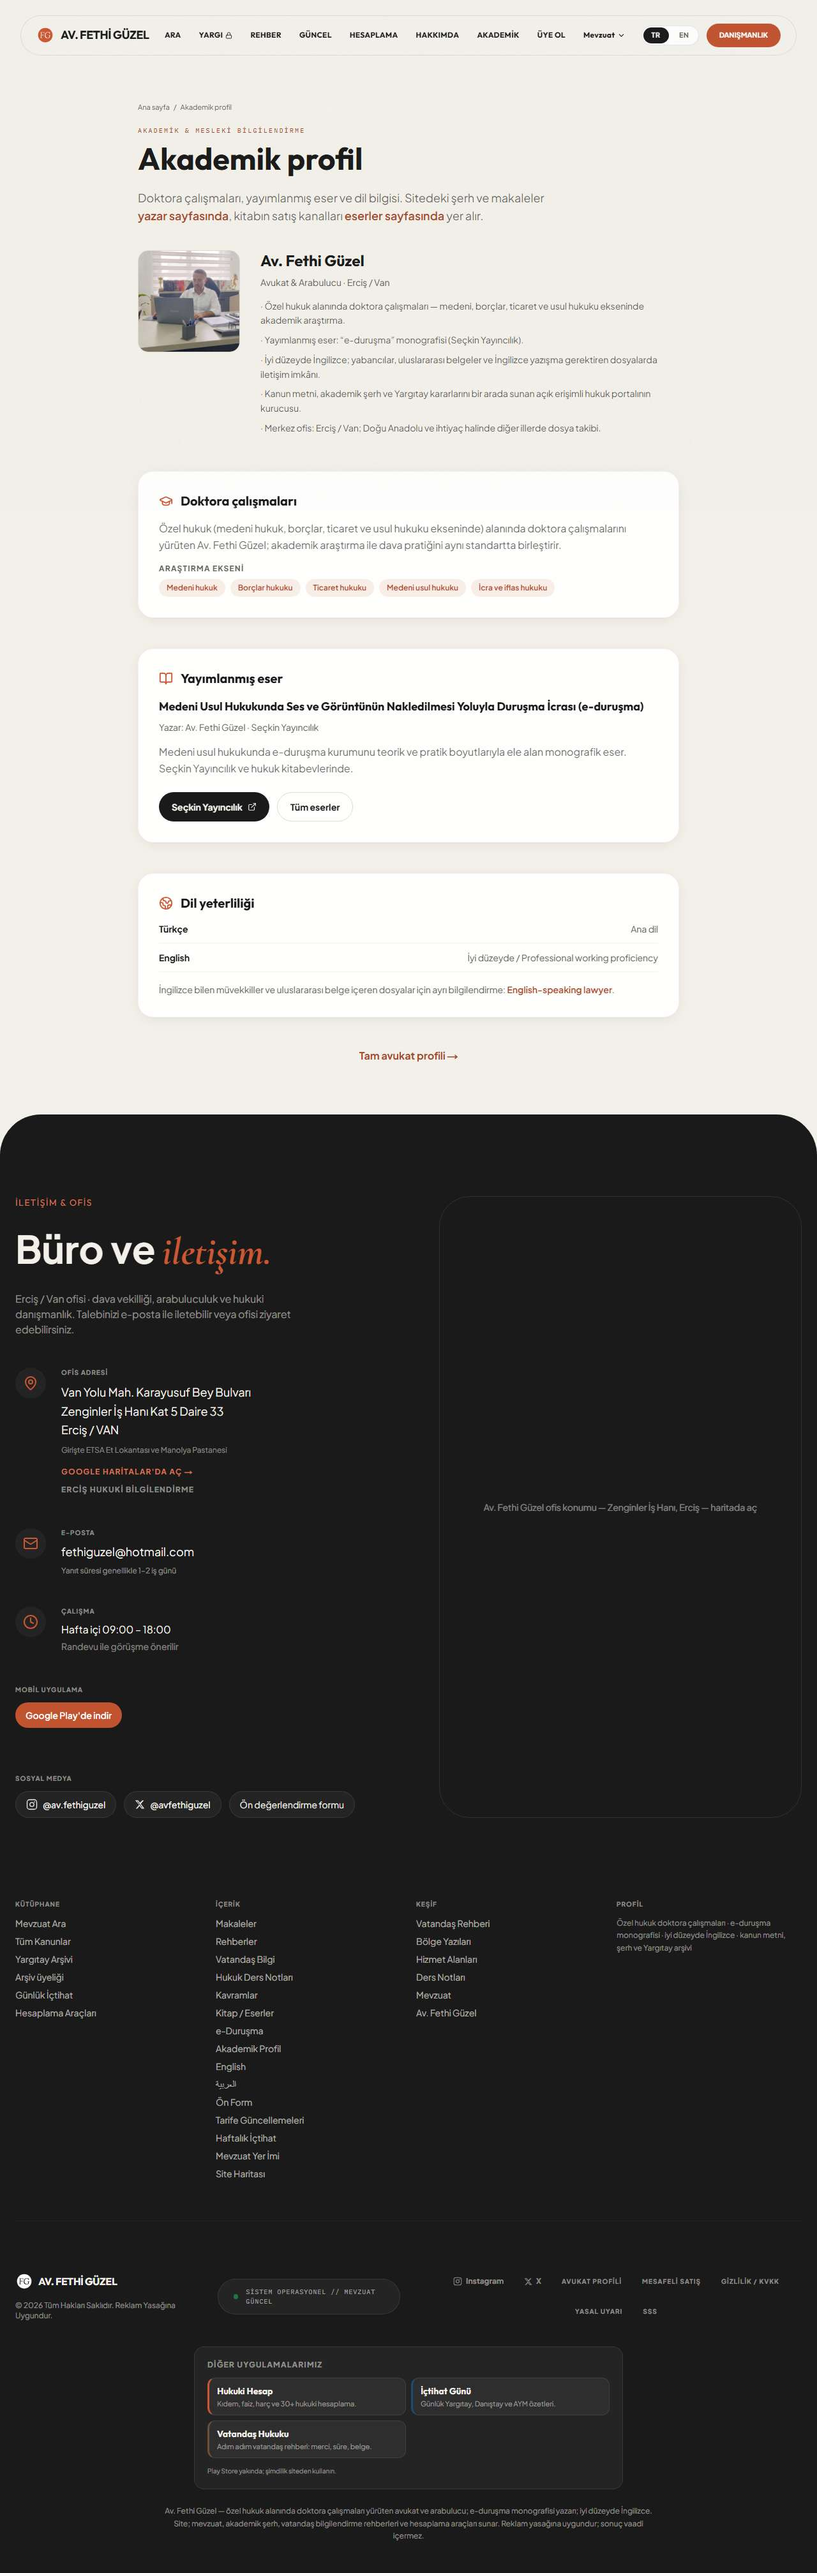
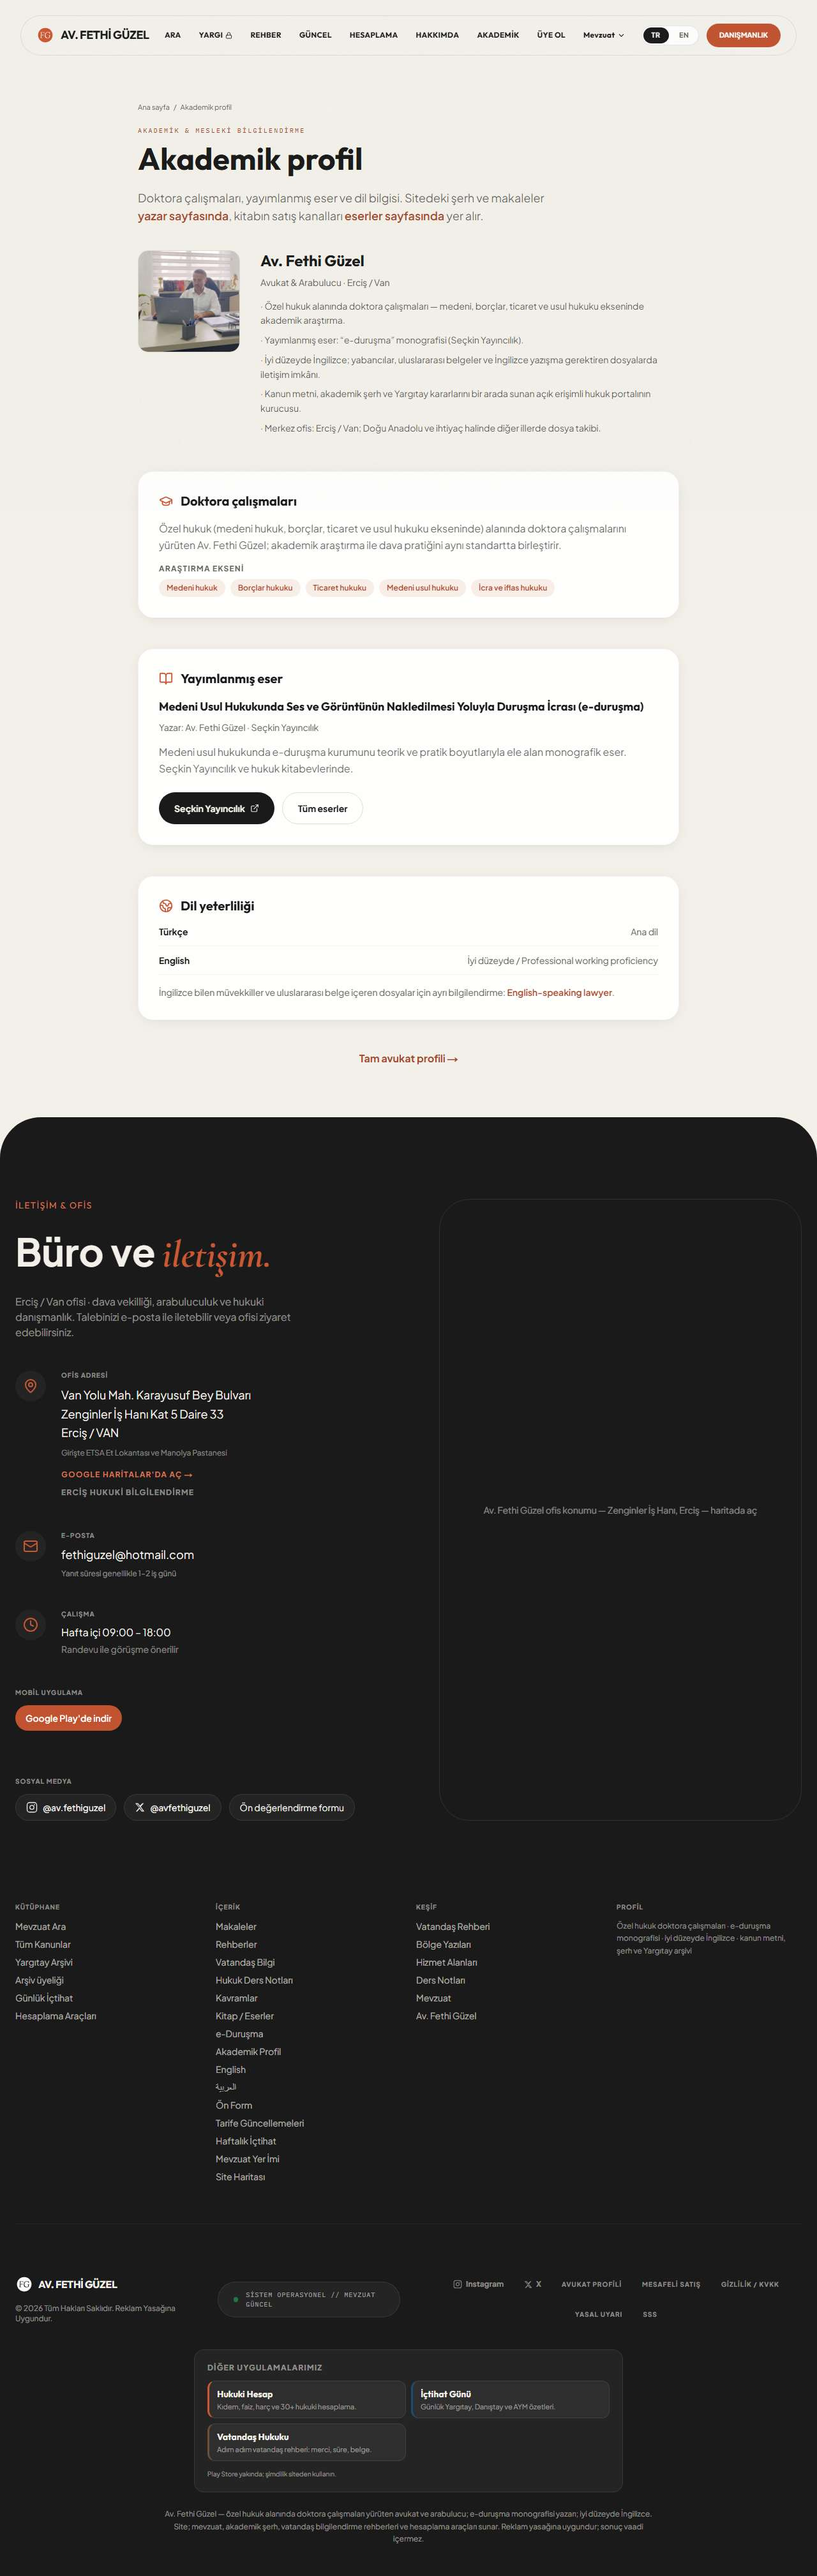
feat(tasarim): ana sayfa ve yazar sayfalarında düğmeler ortak sınıflardan, G16 kapanışı (G16)
Açık zemindeki 14 satır içi düğme .btn-primary, .btn-dark, .btn-secondary ve
.btn-chip sınıflarına toplanır; yazar sayfasının bağlantı satırı dört dolgudan üç
düzeye iner, çipin üzerine gelme rengi accent-ink olur. Hero'nun koyu zemindeki
kademeli düğmeleri bilinçli hiyerarşi olarak kalır. Cırcır testi önce kırmızı (14).
Dört sayfa iki genişlikte denetim 0; ana sayfa mobil aktarım 716 KB, LCP 4.903 ms.
PLAN.md'de G16 tamamlandı; alt bilgideki uyum beyanları G25'e devredildi.

diff --git a/app/avukat-fethi-guzel/page.tsx b/app/avukat-fethi-guzel/page.tsx
@@ -206,7 +206,7 @@ export default function AvukatFethiGuzelPage() {
                         <div className="flex flex-col sm:flex-row flex-wrap gap-3 mb-10">
                             <a
                                 href={`mailto:${PROFILE.email}`}
-                                className="inline-flex items-center justify-center gap-2 bg-accent-solid text-white px-6 py-3.5 rounded-full font-bold text-sm hover:bg-accent-ink"
+                                className="btn-primary"
                             >
                                 <Mail size={16} /> E-posta ile iletişim
                             </a>
@@ -214,7 +214,7 @@ export default function AvukatFethiGuzelPage() {
                                 href={PROFILE.social.instagram.url}
                                 target="_blank"
                                 rel="noopener noreferrer me"
-                                className="inline-flex items-center justify-center gap-2 bg-charcoal/5 text-charcoal px-6 py-3.5 rounded-full font-bold text-sm hover:bg-charcoal/10"
+                                className="btn-secondary"
                             >
                                 Instagram
                             </a>
@@ -222,25 +222,25 @@ export default function AvukatFethiGuzelPage() {
                                 href={PROFILE.social.twitter.url}
                                 target="_blank"
                                 rel="noopener noreferrer me"
-                                className="inline-flex items-center justify-center gap-2 bg-charcoal/5 text-charcoal px-6 py-3.5 rounded-full font-bold text-sm hover:bg-charcoal/10"
+                                className="btn-secondary"
                             >
                                 X / Twitter
                             </a>
                             <Link
                                 href="/akademik-profil"
-                                className="inline-flex items-center justify-center gap-2 bg-charcoal text-cream px-6 py-3.5 rounded-full font-bold text-sm hover:bg-charcoal/90"
+                                className="btn-dark"
                             >
                                 Akademik profil
                             </Link>
                             <Link
                                 href="/eserlerim"
-                                className="inline-flex items-center justify-center gap-2 bg-charcoal/5 text-charcoal px-6 py-3.5 rounded-full font-bold text-sm hover:bg-charcoal/10"
+                                className="btn-secondary"
                             >
                                 Kitap & eserler
                             </Link>
                             <Link
                                 href="/english-speaking-lawyer"
-                                className="inline-flex items-center justify-center gap-2 border border-charcoal/15 text-charcoal px-6 py-3.5 rounded-full font-bold text-sm hover:border-accent"
+                                className="btn-secondary"
                             >
                                 English
                             </Link>

diff --git a/app/page.tsx b/app/page.tsx
@@ -92,7 +92,7 @@ export default function Home() {
               <li key={href}>
                 <a
                   href={href}
-                  className="inline-block text-sm px-3 py-1.5 rounded-full bg-cream border border-charcoal/10 font-semibold text-charcoal hover:border-accent hover:text-accent transition-colors"
+                  className="btn-chip"
                 >
                   {label}
                 </a>
@@ -120,13 +120,13 @@ export default function Home() {
           <div className="flex flex-wrap gap-2">
             <Link
               href="/bilgi"
-              className="inline-flex items-center gap-2 bg-accent-solid text-white px-6 py-3 rounded-full text-sm font-bold hover:bg-accent-ink transition-colors"
+              className="btn-primary"
             >
               Vatandaş rehberi
             </Link>
             <Link
               href="/rehber"
-              className="inline-flex items-center gap-2 bg-charcoal text-cream px-6 py-3 rounded-full text-sm font-bold hover:bg-accent-solid hover:text-white transition-colors"
+              className="btn-dark"
             >
               Süreç kılavuzları
             </Link>

diff --git a/app/globals.css b/app/globals.css
@@ -269,6 +269,19 @@ body::before {
     @apply inline-flex items-center justify-center gap-2 bg-white/10 text-cream border border-white/20 font-bold text-sm px-6 py-3.5 rounded-full transition-all hover:bg-white/20;
   }
 
+  /* Açık zeminde ikinci ve üçüncü düzey düğme, küçük bağlantı çipi (G16; önceden 14 satır içi birleşim). */
+  .btn-dark {
+    @apply inline-flex items-center justify-center gap-2 bg-charcoal text-cream font-bold text-sm px-6 py-3.5 rounded-full transition-colors hover:bg-accent-solid hover:text-white;
+  }
+
+  .btn-secondary {
+    @apply inline-flex items-center justify-center gap-2 border border-charcoal/15 text-charcoal font-bold text-sm px-6 py-3.5 rounded-full transition-colors hover:border-accent hover:text-accent-ink;
+  }
+
+  .btn-chip {
+    @apply inline-block text-sm font-semibold text-charcoal bg-cream border border-charcoal/10 px-3 py-1.5 rounded-full transition-colors hover:border-accent hover:text-accent-ink;
+  }
+
   .section-label {
     @apply text-accent-ink font-heading text-xs sm:text-sm tracking-[0.2em] uppercase font-semibold;
   }

diff --git a/app/akademik-profil/page.tsx b/app/akademik-profil/page.tsx
@@ -142,13 +142,13 @@ export default function AkademikProfilPage() {
                             href={YAZAR.eser.url}
                             target="_blank"
                             rel="noopener noreferrer"
-                            className="inline-flex items-center gap-2 bg-charcoal text-cream px-5 py-3 rounded-full text-sm font-bold hover:bg-accent-solid hover:text-white transition-colors"
+                            className="btn-dark"
                         >
                             {YAZAR.eser.yayinevi} <ExternalLink size={14} />
                         </a>
                         <Link
                             href="/eserlerim"
-                            className="inline-flex items-center gap-2 border border-charcoal/15 px-5 py-3 rounded-full text-sm font-bold text-charcoal hover:border-accent"
+                            className="btn-secondary"
                         >
                             Tüm eserler
                         </Link>

diff --git a/components/About.tsx b/components/About.tsx
@@ -106,7 +106,7 @@ export default function About({ serh, kitap }: { serh: string; kitap: string }) 
           <div className="philo-text pt-2">
             <Link
               href="/avukat-fethi-guzel"
-              className="inline-flex items-center justify-center gap-2 bg-accent-solid text-white px-6 py-3.5 rounded-full font-bold text-sm hover:bg-accent-ink transition-colors"
+              className="btn-primary"
             >
               Tam profil
               <ArrowRight size={16} aria-hidden />

diff --git a/components/ToolsPreview.tsx b/components/ToolsPreview.tsx
@@ -101,7 +101,7 @@ export default function ToolsPreview() {
           </div>
           <Link
             href="/hesaplama"
-            className="group self-start flex items-center gap-2 bg-charcoal text-cream px-6 py-3 rounded-full font-bold text-sm transition-all hover:bg-accent-solid hover:text-white"
+            className="group self-start btn-dark"
           >
             Tüm Araçlar
             <ArrowRight size={15} className="group-hover:translate-x-1 transition-transform" />

diff --git a/components/YargiPreview.tsx b/components/YargiPreview.tsx
@@ -75,7 +75,7 @@ export default function YargiPreview() {
           </div>
           <Link
             href="/yargi-kararlari"
-            className="self-start inline-flex items-center gap-2 bg-accent-solid text-white px-6 py-3 rounded-full text-sm font-bold hover:bg-accent-ink transition-colors"
+            className="self-start btn-primary"
           >
             {total ? `${total.toLocaleString('tr-TR')} karar · üyelik` : 'Üyelikle aç'}
             <ArrowRight size={15} />

diff --git a/docs/aylik-plan/PLAN.md b/docs/aylik-plan/PLAN.md
@@ -232,13 +232,14 @@ biter; çalıştırıcı limit mesajındaki yenilenme saatini okuyup 3 dk sonras
     metni, düz `bg-accent` dolgusunu, krem yazı ile dolgu eşleşmesini, `outline-none` ve kalın tek kenar çizgisini engeller. Rapor
     `raporlar/tasarim-denetimi.md`. Koyu tema soru 21'e bağlıdır.
 
-- [ ] **G16 — Ana sayfa ve yazar sayfaları** · bağımlı: G09, G15
+- [x] **G16 — Ana sayfa ve yazar sayfaları** · bağımlı: G09, G15 · 2026-10-08: elle yazılmış külliyat sayısı 11 → 0, bölüm otorite sırasıyla, üç yazar sayfası tek kaynaktan; mobil ana sayfa 13.653 → 11.483 px, aktarım 758 → 716 KB, LCP 5.618 → 4.903 ms; dört sayfada denetim 0
   - Otorite öncelikli kurgu: yazar, eserler, şerh külliyatı, karar arşivi büyüklüğü, güncel içtihat.
     Satış/reklam dili yok.
-  - DEVAM EDİYOR (2026-10-08): Değerlendirme raporu `raporlar/g16-anasayfa-yazar.md`. Külliyat sayıları tek kaynaktan, uyum
-    beyanları kaldırıldı, cırcır testi (`d4d92766e`, `aa277ba7b`). Kalan: bölüm birleştirme, yazar sayfaları, ölçüm (`gorevler/G16.md`).
+  - Tamamlandı (2026-10-08): Rapor `raporlar/g16-anasayfa-yazar.md`, alt plan `gorevler/G16.md`. Commit'ler `d4d92766e`,
+    `aa277ba7b`, `3a9f11b78`, `3d557a0a8`, `f5091f063` ve düğme sınıfları. Soru 10–14'e bağlı öğeler değiştirilmemiştir.
   - G15 notu: Dolgulu yuvarlak düğmeler 29 yerde 14 dolgu/punto birleşimiyle yazılmıştır. Sayfalar yeniden kurulurken `.btn-primary`
-    ve küçük etiket düğmesi için tek sınıfa toplanır (renk jetonu `accent-solid` hazırdır).
+    ve küçük etiket düğmesi için tek sınıfa toplanır (renk jetonu `accent-solid` hazırdır). G16'da ana sayfa ve yazar sayfalarındaki
+    14 düğme `.btn-primary`, `.btn-dark`, `.btn-secondary`, `.btn-chip` sınıflarına toplanmıştır; sitenin geri kalanı G21/G24'te.
 
 - [ ] **G17 — Grafikler** · bağımlı: G15 · beceri: dataviz
   - "Yargıtay karar arşivi" istatistik sayfası: yıllara, birimlere, hukuk alanlarına göre dağılım,
@@ -281,6 +282,10 @@ biter; çalıştırıcı limit mesajındaki yenilenme saatini okuyup 3 dk sonras
     görevler ve yazı tipi değişiminin yerleşim maliyeti profillenir (`gorevler/G13.md`). `app/[category]` eski sayfalarının
     yönlendirme dışı kalıp kalmadığı da burada denetlenir (`raporlar/tasarim-denetimi.md`). Tasarım denetimi
     `node scripts/tasarim-denetim.mjs --etiket=final` ile yinelenir.
+  - G16'dan devir: Alt bilgide iki uyum beyanı kalmıştır ("Reklam Yasağına Uygundur.", "Reklam yasağına uygundur; sonuç vaadi
+    içermez."). G16 ana sayfa ve yazar sayfalarındaki aynı türden beyanları kaldırmıştır; alt bilgi bütün sitede ortak olduğundan
+    burada ele alınır. `/akademik-profil` ve `/eserlerim` denetim listesine (`lib/tasarim-denetim.mjs`) eklenir, G16 bunları geçici
+    kopyayla ölçmüştür.
 
 - [ ] **G26 — Yayın paketi** · bağımlı: G25
   - `PUSH-KONTROL-LISTESI.md`: `git fetch` + uzak `main`'deki günlük içtihat commit'leriyle birleştirme

diff --git a/docs/aylik-plan/raporlar/g16-anasayfa-yazar.md b/docs/aylik-plan/raporlar/g16-anasayfa-yazar.md
@@ -99,20 +99,32 @@ vermektedir.
 
 Ana sayfa, Lighthouse mobil üç koşu ortancası:
 
-| Ölçü | G13 sonrası | G16 ilk ölçüm | G16 son |
-|---|---:|---:|---:|
-| Performans | 44 | 73 | 74 |
-| LCP | 5.618 ms | 4.862 ms | 4.938 ms |
-| TBT | 2.418 ms | 352 ms | 327 ms |
-| CLS | 0 | 0 | 0 |
-| Aktarım | 758 KB | 811 KB | 716 KB |
-| Erişilebilirlik | 94 | 98 | 98 |
+| Ölçü | G13 sonrası | G16 ilk ölçüm | Ön getirme sonrası | Düğme sınıfları sonrası |
+|---|---:|---:|---:|---:|
+| Performans | 44 | 73 | 74 | 70 |
+| LCP | 5.618 ms | 4.862 ms | 4.938 ms | 4.903 ms |
+| TBT | 2.418 ms | 352 ms | 327 ms | 460 ms (128–465) |
+| CLS | 0 | 0 | 0 | 0 |
+| Aktarım | 758 KB | 811 KB | 716 KB | 716 KB |
+| Erişilebilirlik | 94 | 98 | 98 | 98 |
+
+Son sütundaki TBT ve performans farkı koşular arası dağılım içindedir (TBT aralığı 128–465 ms), düğme değişikliği yalnız CSS
+sınıflarını taşır ve aktarımı değiştirmemiştir.
 
 İlk ölçümde aktarım bütçeyi 53 KB aşmıştır. İstek dökümü artışın betik, görsel ya da yazı tipinde değil, ön getirme isteklerinde
 olduğunu göstermiştir. Sayı rozetleri kaldırılınca Hero'nun ikincil düğmeleri ve yeni külliyat şeridi mobil ilk ekrana girmiş,
 `/bilgi` (36 KB), `/mevzuat` (25 KB) ve `/mevzuat/tbk` (18 KB) her açılışta indirilmeye başlamıştır. G13'teki alt çubuk emsaliyle
 şeritte ve iki ikincil düğmede `prefetch={false}` kullanılmıştır. Birincil düğmeler (`/ara`, `/yargi-kararlari`) ön getirmeyi
 korur. Erişilebilirlikte kalan tek kural `heading-order`'dır ve G13 ölçümünde de bulunmaktadır (G24).
+
+Düğmeler: Açık zemindeki 14 satır içi düğme dört ortak sınıfa toplanmıştır (`.btn-primary`, `.btn-dark`, `.btn-secondary`,
+`.btn-chip`). Yazar sayfasının bağlantı satırı dört dolgudan üç düzeye inmiştir: e-posta birincil, akademik profil koyu, diğerleri
+çerçeveli. Çipin üzerine gelme rengi `text-accent` yerine `text-accent-ink` olmuştur. Hero'nun koyu zemindeki kademeli düğmeleri
+bilinçli hiyerarşi olduğundan değiştirilmemiştir. Bu değişiklikten sonra denetim dört sayfada iki genişlikte yine 0'dır.
+
+Kalan, kullanıcı yanıtına bağlı maddeler (soru 10–14) yukarıdaki "Dokunulmayanlar" listesindedir. Alt bilgide iki uyum beyanı
+kalmıştır (`components/Footer.tsx`: "Reklam Yasağına Uygundur." ve "Reklam yasağına uygundur; sonuç vaadi içermez."). Alt bilgi
+bütün sitede ortak olduğundan bu görevde değiştirilmemiş, G25 son regresyon listesine not edilmiştir.
 
 ## Güçlü yanlar
 

diff --git a/docs/aylik-plan/gorevler/G16.md b/docs/aylik-plan/gorevler/G16.md
@@ -81,4 +81,12 @@ aktarım G13 sonrasından kötü değil; önce/sonra ekran görüntüleri ve rap
 - Adım 5'in ilk ölçümü iki bulgu vermiştir. `/eserlerim`'deki alt başlık açık zeminde `text-accent` ile 3,67:1'di (sayfa G15
   denetim listesinde olmadığından görülmemişti), `text-accent-ink`'e çevrilmiştir. Ana sayfanın mobil aktarımı 811 KB'tır (G13
   sonrası 758 KB). Fark, ilk ekrandaki külliyat şeridinin `/bilgi` (36 KB) ve `/mevzuat` (25 KB) ön getirmesidir. G13'teki alt
-  çubuk emsaliyle şeritte `prefetch={false}` kullanılmış, cırcır testi eklenmiştir (önce kırmızı).
+  çubuk emsaliyle şeritte `prefetch={false}` kullanılmış, cırcır testi eklenmiştir (önce kırmızı). İkinci ölçümde aktarım 778 KB
+  olmuştur. Kalan fark Hero'nun ikincil düğmeleridir (`/bilgi`, `/mevzuat/tbk`): Sayı rozetleri kalkınca mobil ilk ekrana
+  girmişlerdir. Bu iki düğmede de ön getirme kapatılmış, birincil düğmeler korunmuştur.
+- Adım 5 kapanış ölçümü (`f5091f063`): Dört sayfa iki genişlikte kontrast, hedef ve taşma bakımından 0'dır. Ana sayfa mobil üç koşu
+  ortancası LCP 4.938 ms, aktarım 716 KB, TBT 327 ms, performans 74'tür (G13 sonrası: 5.618 ms, 758 KB, 2.418 ms, 44). Detektör
+  değişen sekiz dosyada 0 bulgu vermiştir. Rapor `raporlar/g16-anasayfa-yazar.md` "Sonra ölçümü".
+- G15 notu (düğme birleştirmesi): Açık zemindeki 14 satır içi düğme `.btn-primary`, `.btn-dark`, `.btn-secondary` ve `.btn-chip`
+  sınıflarına toplanmıştır. Yazar sayfasının bağlantı satırında dört dolgu üçe inmiştir. Hero'nun koyu zemindeki kademeli düğmeleri
+  bilinçli hiyerarşi olduğundan değiştirilmemiştir. Cırcır testi önce kırmızıdır (14 düğme).
